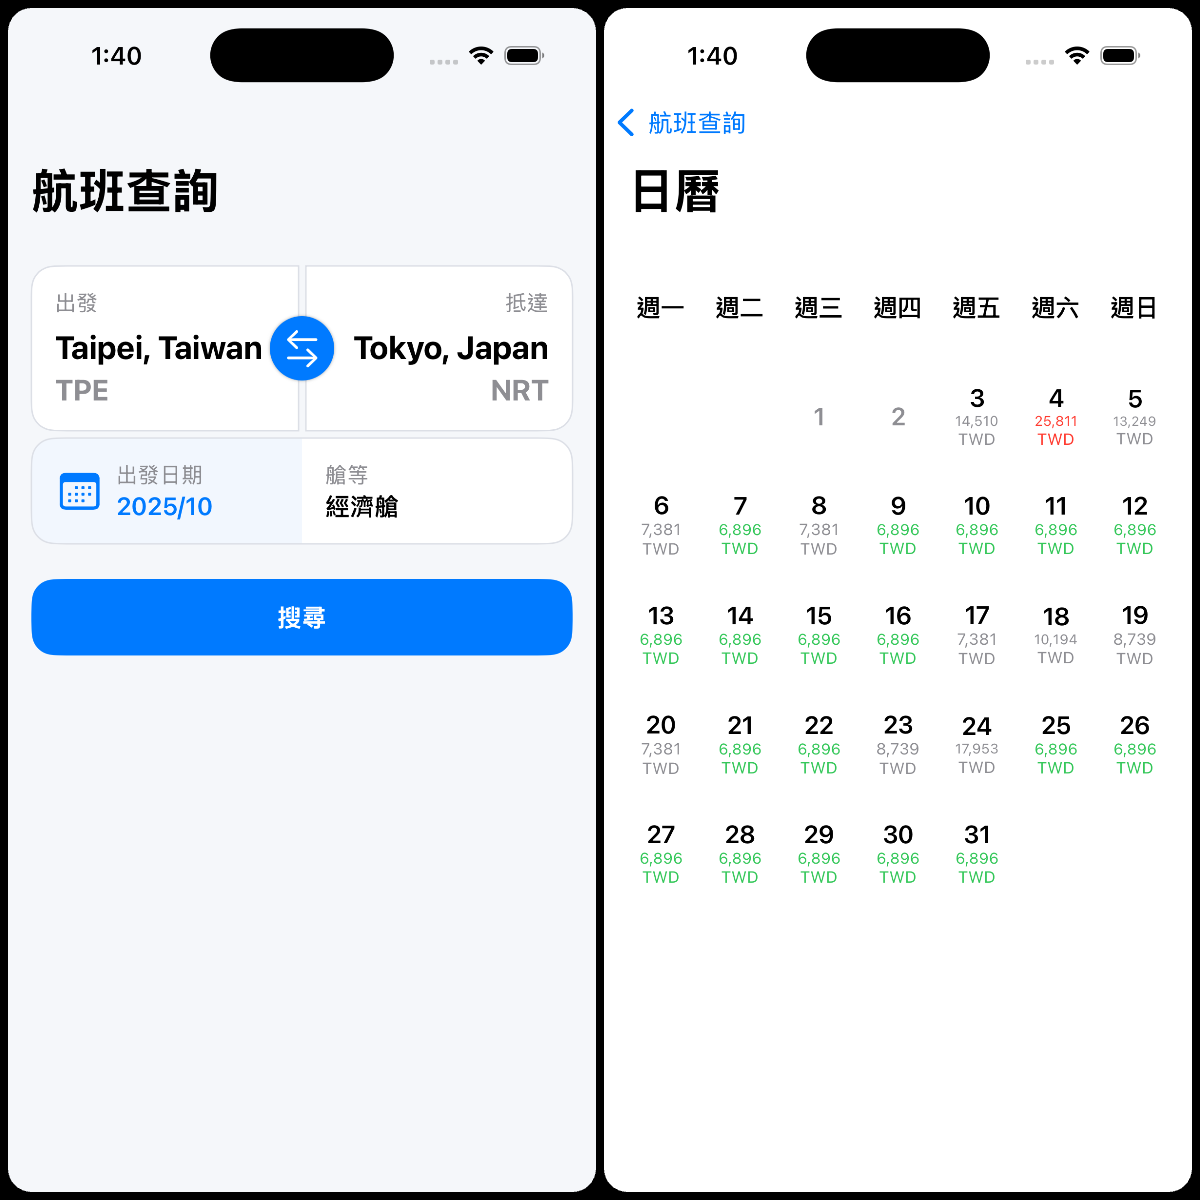
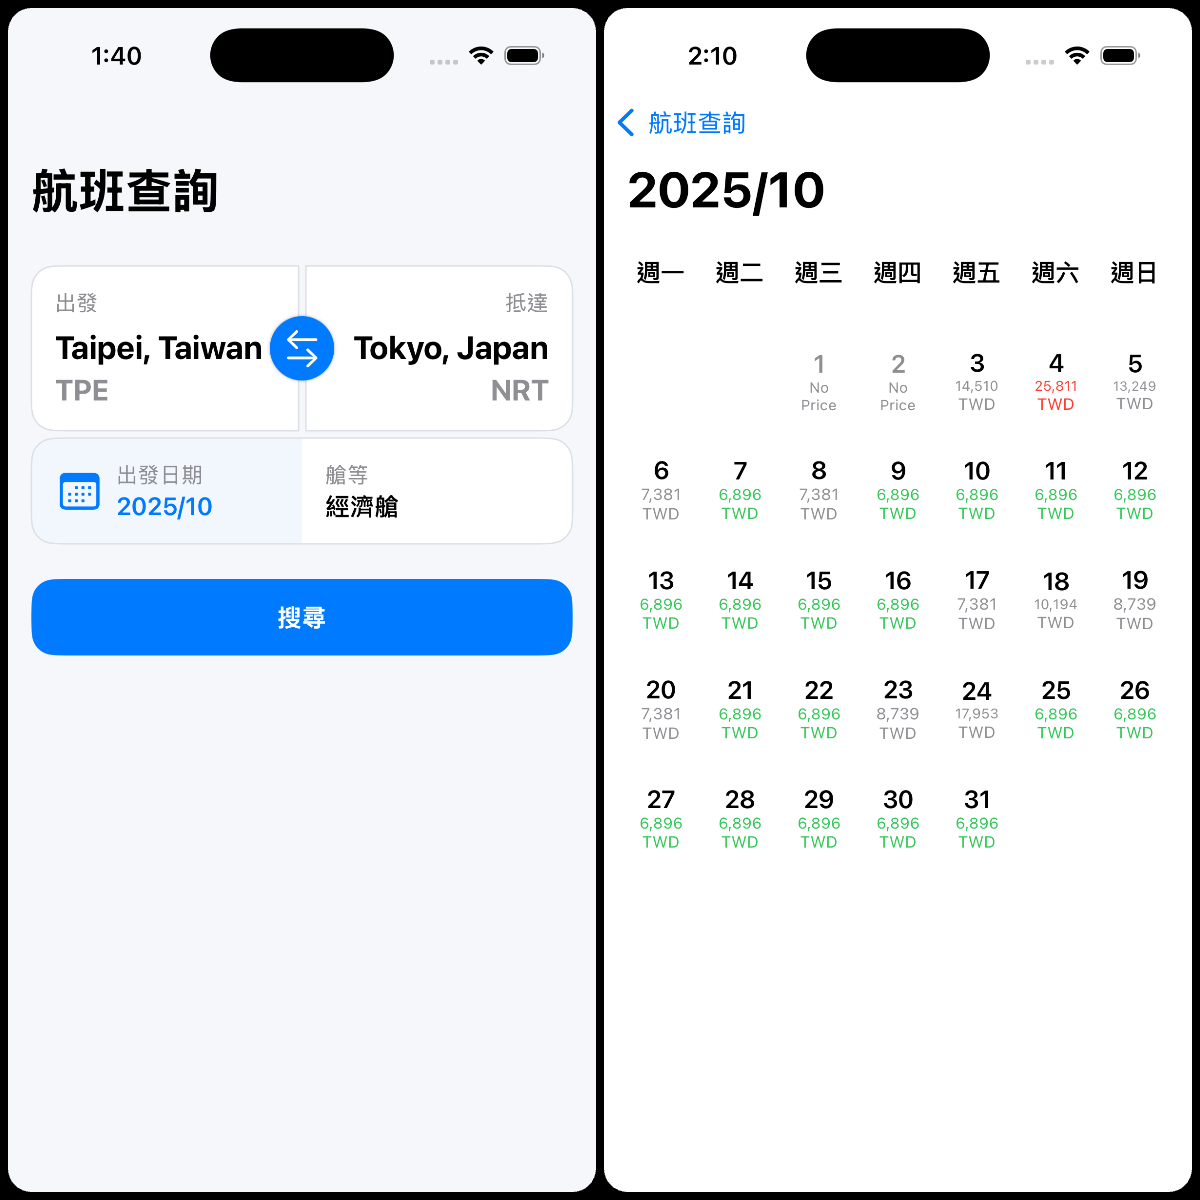
[Fix] fix UI issue

diff --git a/StarluxCalendar/Sources/Views/CalendarView.swift b/StarluxCalendar/Sources/Views/CalendarView.swift
@@ -34,8 +34,8 @@ struct CalendarView: View {
                             
                             LazyVGrid(columns: columns, spacing: 12) {
                                 ForEach(viewStore.calendarItems) { day in
-                                    VStack {
-                                        Text(day.departureDate.suffix(2)) // 只顯示日
+                                    VStack(spacing: 0) {
+                                        Text(day.departureDate)
                                             .font(.headline)
                                             .foregroundColor(day.status == "available" ? .black : .gray)
                                                         
@@ -50,6 +50,19 @@ struct CalendarView: View {
                                                 .foregroundColor(day.color)
                                                 .lineLimit(1)
                                                 .minimumScaleFactor(0.5)
+                                        } else if !day.departureDate.isEmpty {
+                                            Text("No")
+                                                .font(.body)
+                                                .foregroundColor(.gray)
+                                                .lineLimit(1)
+                                                .minimumScaleFactor(0.5)
+                                                .frame(height: 12)
+                                            Text("Price")
+                                                .font(.body)
+                                                .foregroundColor(.gray)
+                                                .lineLimit(1)
+                                                .minimumScaleFactor(0.5)
+                                                .frame(height: 12)
                                         }
                                     }
                                     .padding(8)
@@ -59,12 +72,12 @@ struct CalendarView: View {
                             .padding()
                         }
                     }
-                    .padding(.top, 24)
+                    .padding(.top, 0)
                     .frame(maxWidth: .infinity, alignment: .top)
                 }
             }
             .alert($store.scope(state: \.alert, action: \.alert))
-            .navigationTitle("Calendar")
+            .navigationTitle("\(viewStore.departureDate.getDateStringFromUTC(.yyyyMMWithSlash))")
             .onAppear {
                 store.send(.viewOnAppear)
             }
